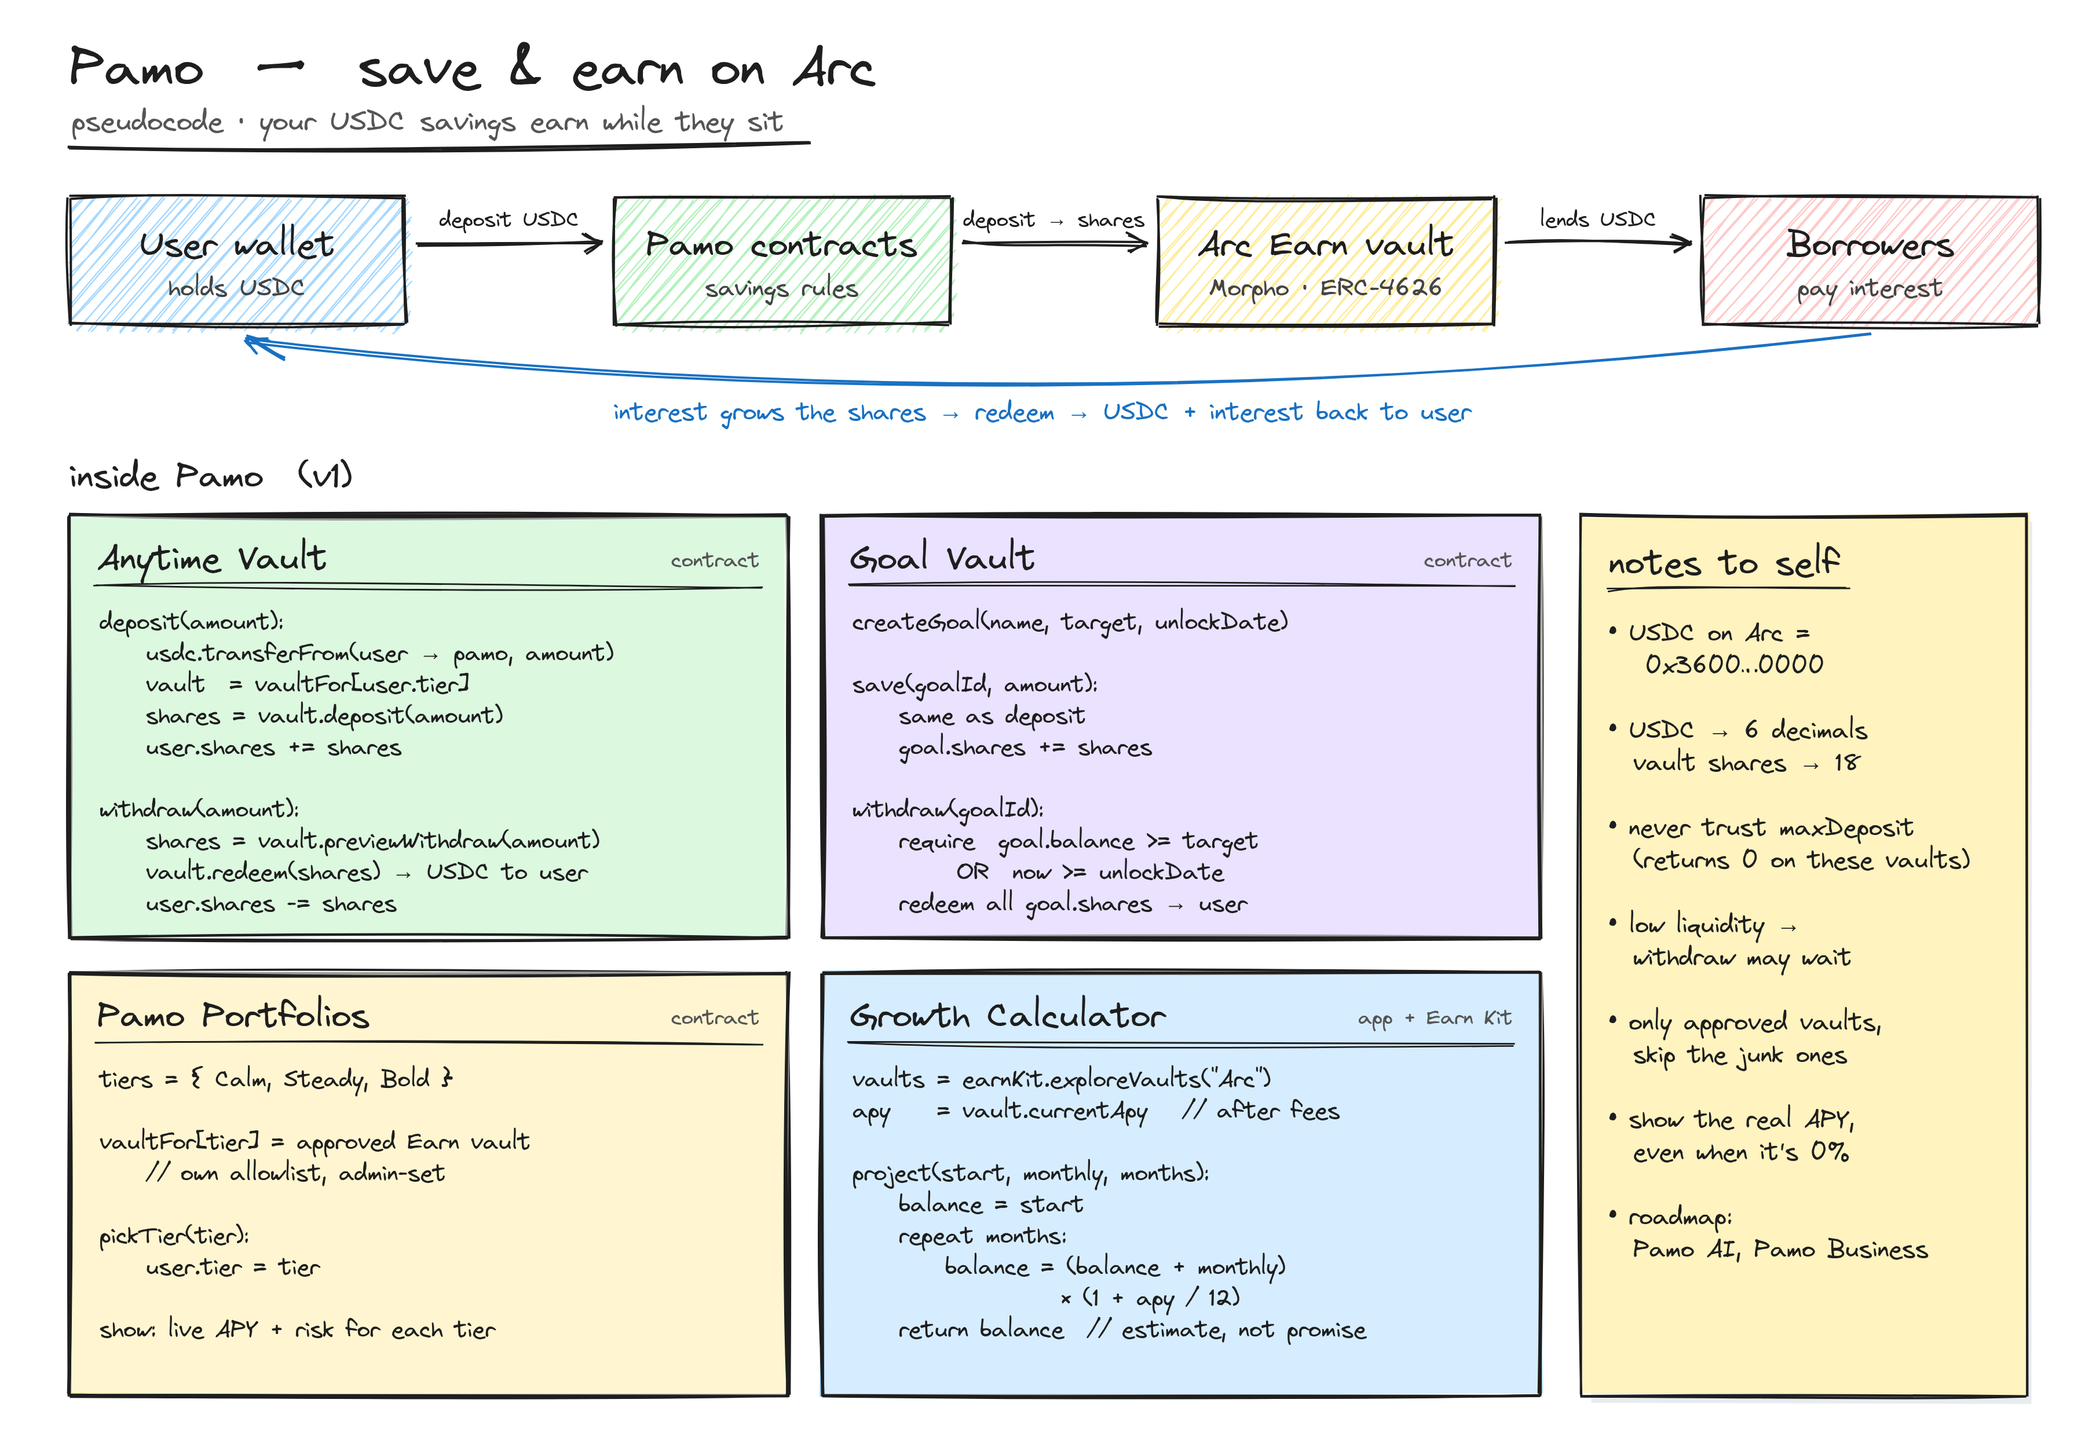
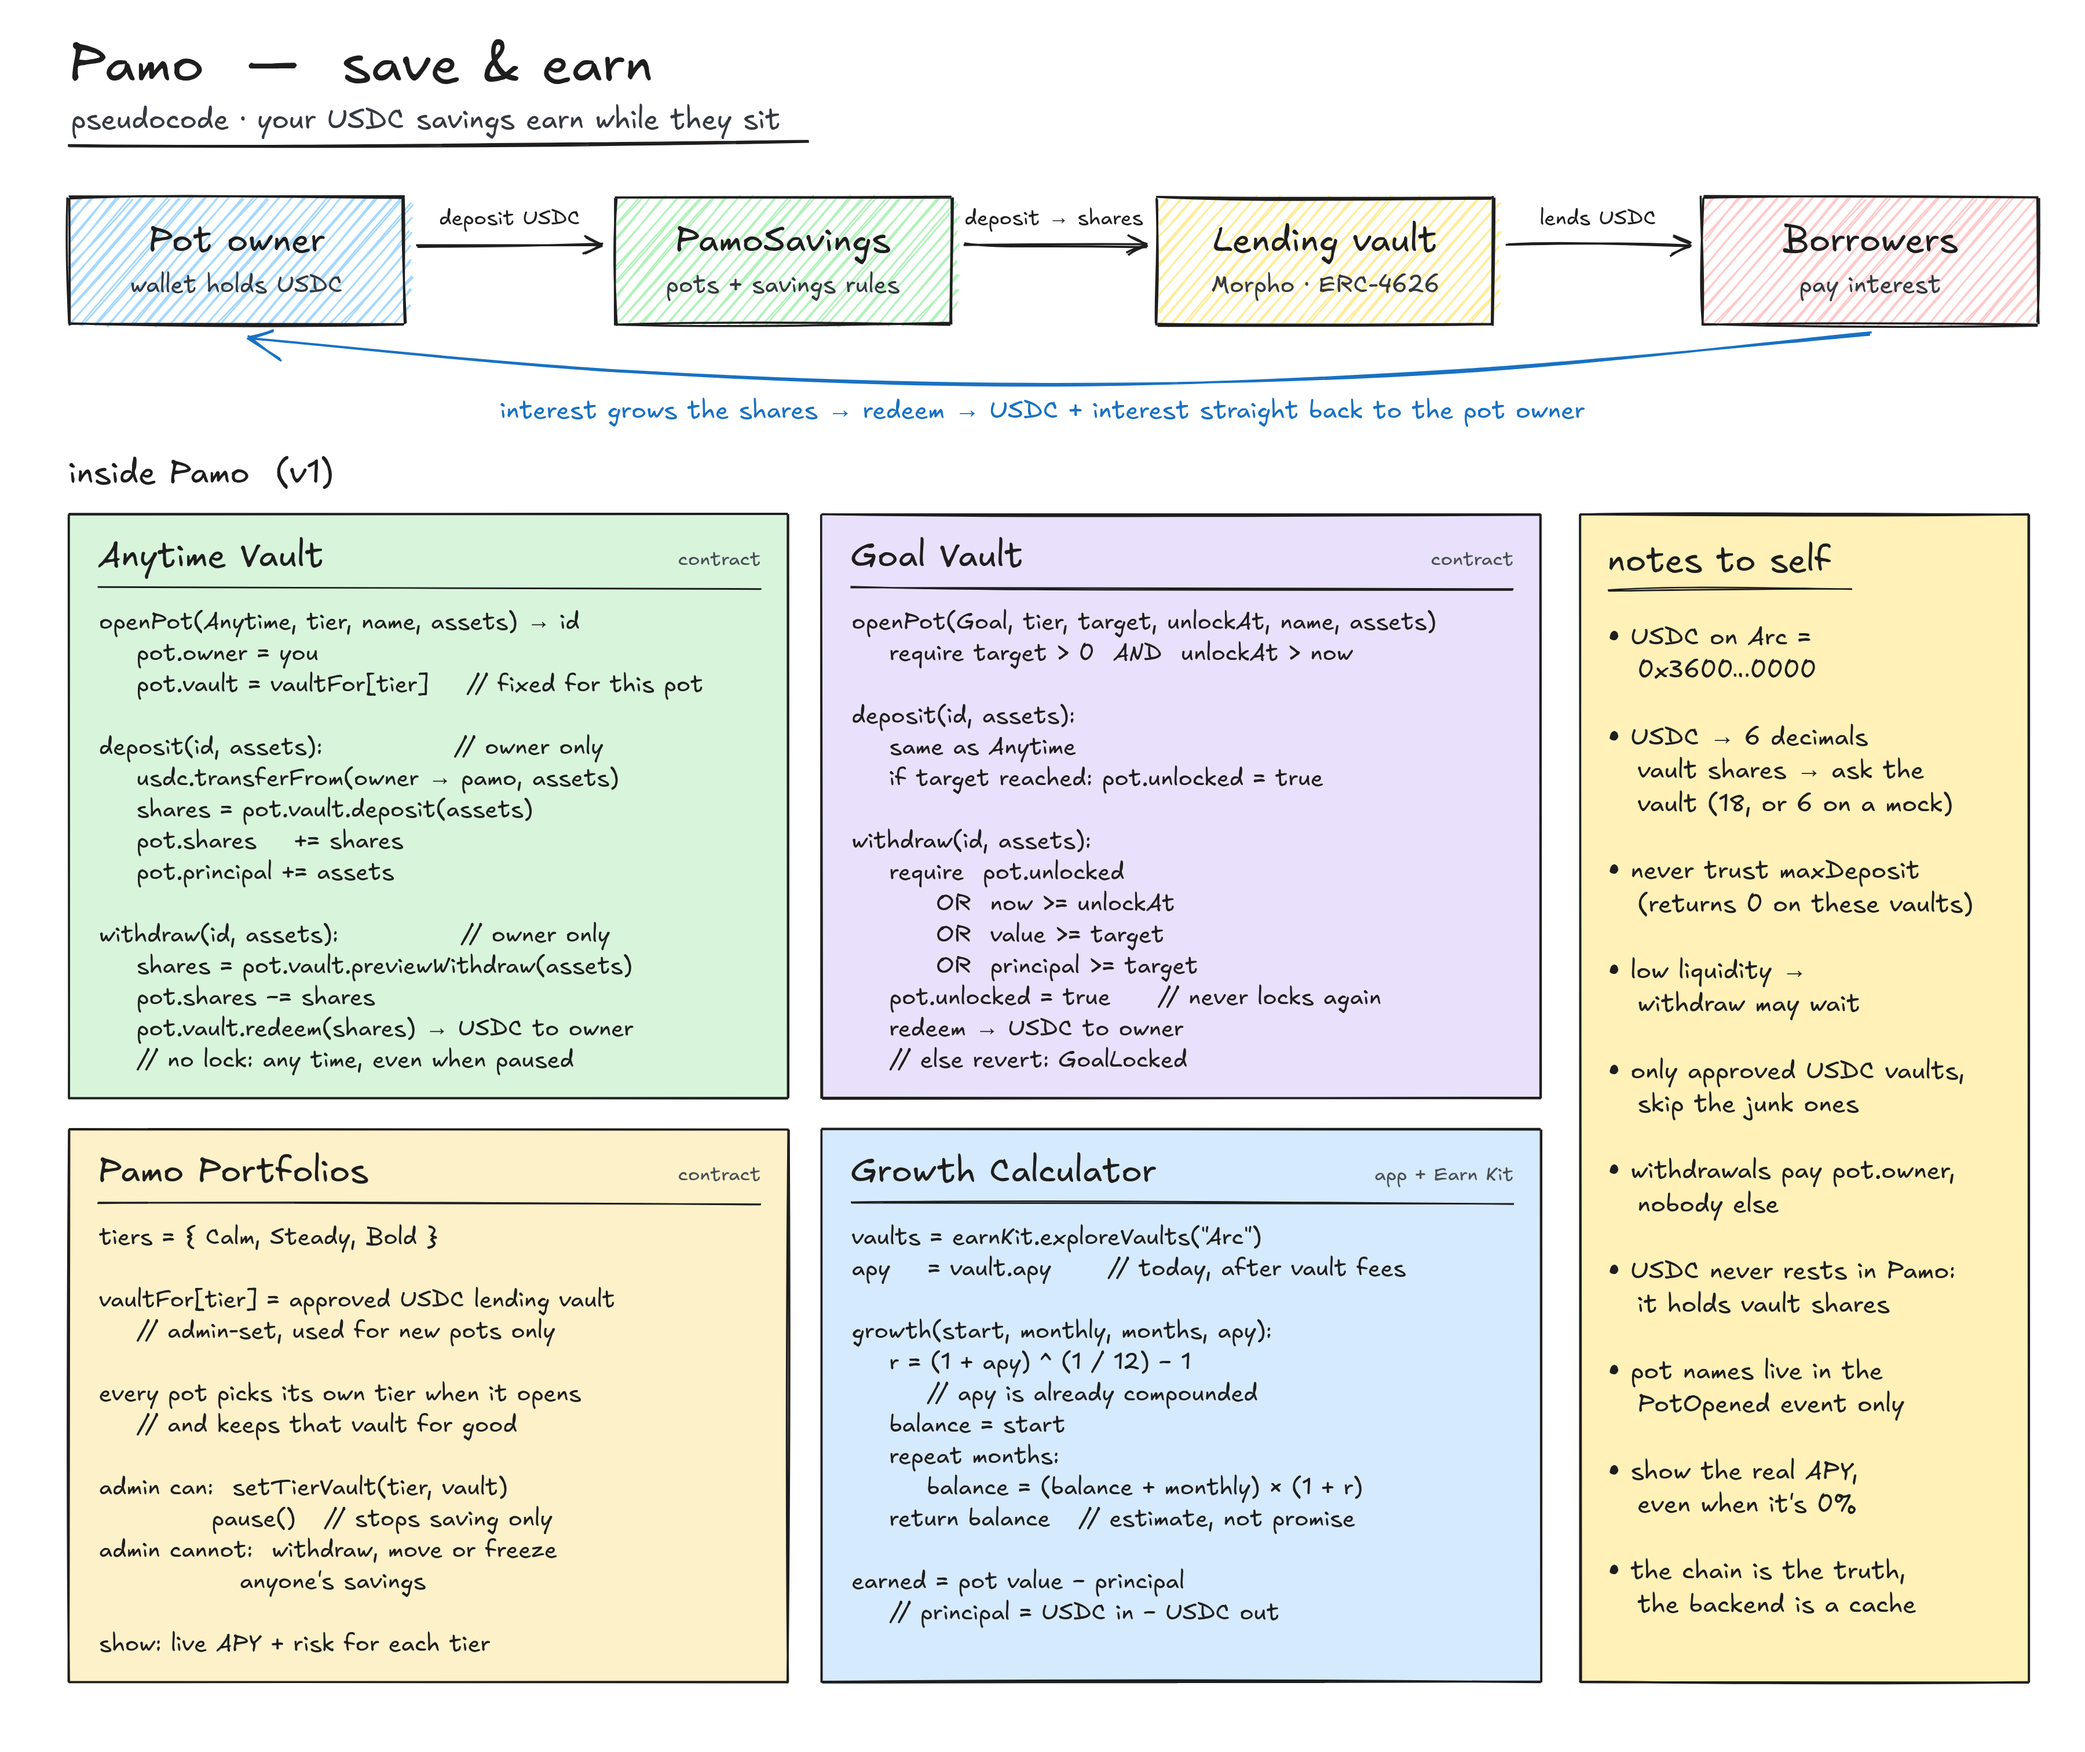
Redraw the pseudocode image for the current design and add it to the README

Changed region(s): [[0.0311, 0.031, 0.9956, 0.9935], [0.7778, 0.7762, 0.9022, 0.8073]]

diff --git a/Docs/Build_Guide.md b/Docs/Build_Guide.md
@@ -487,7 +487,7 @@ Re-dated on **Oct 8**: Phase 0 is done and the contract is next. Tasks are order
 ### Phase 7: Story (Oct 13)
 
 - [ ] README: what Pamo is, live URL, contract address + explorer link, architecture diagram (from Arch §2), how to run, roadmap
-- [ ] Redraw `pamo-pseudocode.png` first (it shows an older design: tier per user, `apy / 12`), then add it to the README
+- [x] Redraw `pamo-pseudocode.png` first (it shows an older design: tier per user, `apy / 12`), then add it to the README
 - [ ] Record a 2–3 minute demo video: problem → save → goal → calculator → explorer proof
 - [ ] Draft the DoraHacks submission; attach `Brand Kit & Design/Pamo_Spec_Arc.pdf`
 

diff --git a/README.md b/README.md
@@ -184,6 +184,10 @@ Pamo makes it simple: save any amount, set goals, and earn live lending yield, w
 3. **No surprises.** Every save and withdrawal goes through a review screen first.
 4. **Plain language.** "Lending vault", "earned", "unlocks on". No jargon without an explanation.
 
+### Pamo on one page
+
+![Pamo pseudocode: how USDC moves from a pot owner through PamoSavings into a lending vault, and what the Anytime Vault, Goal Vault, Portfolios and Growth Calculator do](pamo-pseudocode.png)
+
 ---
 
 ## 2. Who are the actors?
